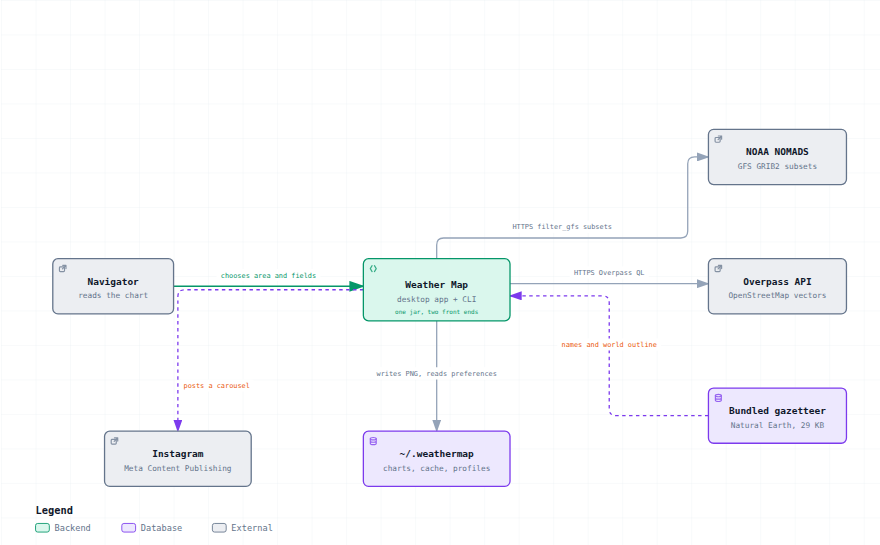
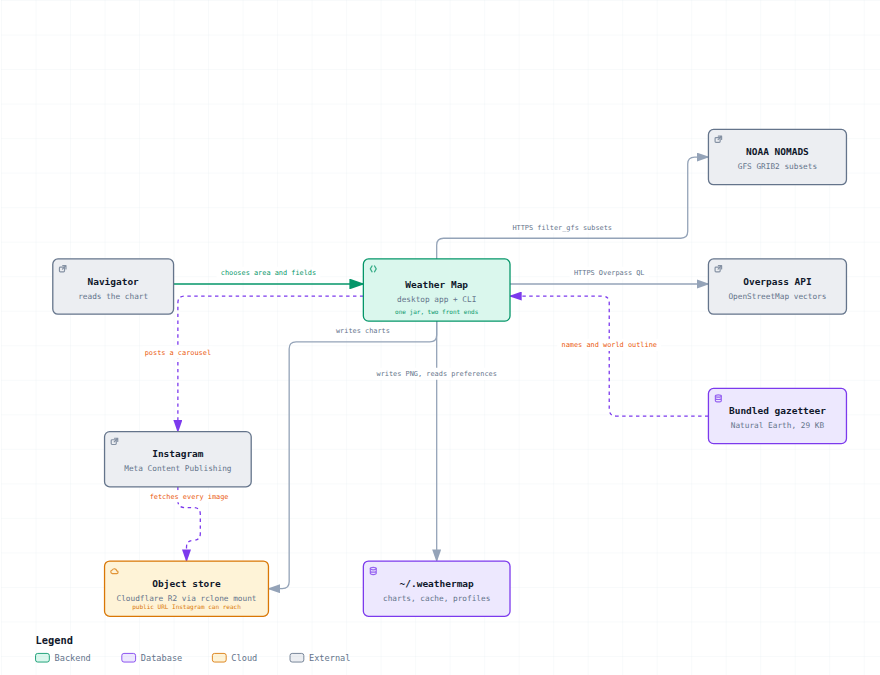
Bring the documentation back in line with what the code does
A sweep after an evening of changes to publishing and hosting.

operations.md contradicted itself. The top of the page explained that
the User-Agent had been fixed and that a test fails the build if a
placeholder returns; the checklist below still told the reader to set a
real one because "it currently names example.invalid". It now says what
is actually left to do, which is to add a contact address if you run it
hard. The page also gains the retry contract - 5xx and transport
failures are retried and 4xx never is - and why the response body is
kept.

not-done-yet.md listed Instagram publishing as unproven against Meta.
It has now published a carousel from a real account, so the entry is
replaced by what is genuinely still missing: no scheduled or repeated
post, and containers left behind by a carousel that fails part-way.

The C4 context diagram showed the application posting images to
Instagram. It never does - it writes to an object store and Instagram
fetches from there - so the store is now a component, with both edges
drawn. The container diagram's publishing card gains the two waits that
the post actually depends on.

packaging.md was bundled into the jar and shown nowhere, which made the
README's claim that the same pages are in the application untrue. It
gains a tab, and a test now fails if any document in docs/ has none.

basic-usage, how-it-works, CHANGES and the README pick up the caption
that is kept between posts, the settings check, and that a post takes
[…]

diff --git a/src/test/java/org/weathermap/gui/MarkdownTest.java b/src/test/java/org/weathermap/gui/MarkdownTest.java
@@ -114,4 +114,36 @@ class MarkdownTest {
             assertTrue(out.length() > 200, resource + " rendered suspiciously short");
         }
     }
+
+    /**
+     * Every page in docs/ is reachable from the Help menu.
+     *
+     * <p>The README says the documentation is the same in the repository and in
+     * the application, and a page that exists in one and not the other quietly
+     * makes that false. {@code packaging.md} had been bundled into the jar and
+     * shown nowhere since the Help window was written.</p>
+     */
+    @Test
+    void everyDocumentIsReachableFromTheHelpMenu() throws Exception {
+        final java.nio.file.Path docs = java.nio.file.Path.of("docs");
+        org.junit.jupiter.api.Assumptions.assumeTrue(
+                java.nio.file.Files.isDirectory(docs), "runs from the source tree only");
+
+        final java.util.Set<String> shown = new java.util.HashSet<>();
+        for (HelpWindow.Page page : HelpWindow.USER_GUIDE) shown.add(page.resource());
+        for (HelpWindow.Page page : HelpWindow.DEVELOPER_GUIDE) shown.add(page.resource());
+
+        final java.util.List<String> missing = new java.util.ArrayList<>();
+        try (var files = java.nio.file.Files.list(docs)) {
+            for (java.nio.file.Path file : files.toList()) {
+                final String name = file.getFileName().toString();
+                if (!name.endsWith(".md")) continue;
+                if (!shown.contains("/help/" + name)) missing.add(name);
+            }
+        }
+        assertTrue(missing.isEmpty(),
+                "documents with no Help tab: " + missing
+                + " - add a Page to HelpWindow, or the README's claim that the same "
+                + "pages are in the application is not true");
+    }
 }

diff --git a/src/main/java/org/weathermap/gui/HelpWindow.java b/src/main/java/org/weathermap/gui/HelpWindow.java
@@ -74,6 +74,7 @@ public final class HelpWindow extends JFrame {
             new Page("Operations", "/help/operations.md"),
             new Page("Architecture", "/help/architecture/README.md"),
             new Page("Diagrams", "/help/architecture/diagrams.md"),
+            new Page("Packaging", "/help/packaging.md"),
             new Page("Not Done Yet", "/help/not-done-yet.md"),
             new Page("License", "/help/LICENSE", true));
 

diff --git a/docs/not-done-yet.md b/docs/not-done-yet.md
@@ -15,7 +15,8 @@ Ordered by how much they matter.
 | Download progress is end-only | `Http.download` | `BodyHandlers.ofFile` gives no intermediate callbacks; needs a counting `BodySubscriber`. |
 | Variable/level availability is only partly validated | `GribCatalog.STANDARD_LEVELS` | The common levels are known and an impossible pair is now repaired by the CLI and queried by the UI, but the full set is only discoverable from each model's filter form, so an unknown pairing is still allowed through and fails at download time. |
 | Pressure-centre search radius is in pixels | `IsolineLayer.CENTRE_RADIUS_PX` | So the test means about a degree on a chart of Britain and five and a half on one of the Southern Ocean, and the same system can be marked at one zoom and not another. A geographic radius was tried: it fixes a genuine miss and loses a different centre, so it is a trade rather than an improvement and wants a proper survey across chart scales. |
-| Instagram publishing is unproven against Meta | `instagram/` | The request construction, image handling, chart selection and credential storage are tested. The three-step publish is written to the documented contract and has not been run against Meta's servers, which needs a real app, token and account. |
+| A post cannot be scheduled or repeated | `instagram/` | Publishing works end to end against Meta, but every post is a button press. A daily chart at a fixed hour needs the CLI to publish, which it cannot yet do — only the window can post. |
+| A failed carousel leaves its containers behind | `InstagramClient` | If the carousel is rejected after some image containers have been created, those containers stay on Meta's side until they expire in 24 hours. They are harmless and uncountable against the daily quota, but they are litter. |
 | Packages are not signed | `dist/` | An unknown-publisher warning on Windows, and a right-click-to-open on macOS, until they are signed and notarised. See [Packaging](packaging.md). |
 | Isoline segments are not stitched into paths | `IsolineLayer` | Marching squares emits unordered segments, which draw correctly and label adequately. Stitching would buy smoothing and a gap in the line under each label. |
 | A marine label point can land on land | `tools/make-gazetteer.py` | The centroid-then-chord rule holds for convex and crescent shapes; a many-armed one such as "Inner Seas off the West Coast of Scotland" can still put its name over an island. A pole of inaccessibility would fix it. |

diff --git a/docs/operations.md b/docs/operations.md
@@ -30,12 +30,31 @@ A 429 now quotes the server's own response body rather than asserting a cause.
 The status code alone cannot distinguish "you are asking too often" from "I do
 not like your User-Agent", and the body says which.
 
+## A rejection is asked once
+
+`Http` retries transport failures and 5xx, and never a 4xx: a 4xx is the server
+saying the request itself is wrong, so repeating it verbatim asks an identical
+question after an identical answer.
+
+That is what it had always claimed. It did the opposite — the throw for a 4xx
+stood inside the `try` whose `catch` handled retryable failures, so it caught
+its own throw, filed it as that attempt's error and went round again. Every
+rejection cost three requests to a shared service, and the log said "retrying"
+over a condition that could not change. A test now sends a 400 at a local server
+and fails the build if it arrives more than once.
+
+The response body is kept too. `HttpStatusException` carries the status and what
+the server said, because for an API that explains itself the body is the whole
+diagnosis and the status is nearly content-free: every distinct mistake had been
+arriving as the same bare `HTTP 400`.
+
 ## Before pointing this at the public services
 
 
-- **Set a real `Http.USER_AGENT`.** It currently names `example.invalid`. Both
-  the OSM Foundation's Overpass instances and NOMADS police the User-Agent, and
-  anonymous clients get blocked.
+- **Add a contact address if you run it hard.** The default User-Agent is
+  already a real one and is accepted by every Overpass instance in use — see
+  above; it is a courtesy, not a repair, to set `-Dweathermap.userAgent=...`
+  with a way to reach you.
 - **Keep the attribution layer on.** OSM data is ODbL, which requires the source
   to be credited on anything produced from it. `AnnotationLayer` draws
   "© OpenStreetMap contributors" whenever the annotation layer is enabled.

diff --git a/README.md b/README.md
@@ -5,8 +5,9 @@ data. A desktop application to choose the area and the data, and a command-line
 tool that repeats the last choice — or a saved profile — against the newest
 model run.
 
-**This is an outline.** The pipeline runs end to end against the live services,
-but several pieces are deliberately sketched rather than finished.
+**This is an outline.** The pipeline runs end to end against the live services —
+including publishing a carousel to Instagram from charts served out of Cloudflare
+R2 — but several pieces are deliberately sketched rather than finished.
 [What is not done yet](docs/not-done-yet.md) is the honest list.
 
 ![The chart pipeline, from a chosen area to a composited PNG](docs/architecture/svg/pipeline.svg)
@@ -33,7 +34,7 @@ The same pages are in the application: **Help → User's Guide** (F1) and
 |---|---|
 | [Basic usage](docs/basic-usage.md) | Choosing an area, choosing data, reading the chart, stepping a series |
 | [Hosting the images](docs/image-hosting.md) | Cloudflare R2 and an rclone mount, so writing a chart publishes it |
-| [Posting to Instagram](docs/instagram.md) | What Meta's API needs, how to get a token, and why there is no password |
+| [Posting to Instagram](docs/instagram.md) | What Meta's API needs, how to get a token, why there is no password, and why a container has to be waited for |
 | [Packaging](docs/packaging.md) | Installable packages for Linux, Windows and macOS; the version scheme |
 | [Build and run](docs/build-and-run.md) | Building, the two front ends, the CLI options, the optional NetCDF-Java profile |
 | [How it works](docs/how-it-works.md) | The rectangle, the vector base map, the bundled gazetteer, persistence, caching |

diff --git a/CHANGES.md b/CHANGES.md
@@ -46,8 +46,21 @@ that repeats a stored selection or a named profile.
   after it as a carousel, default four, in chronological order. Credentials are
   an account ID and an access token — Instagram has no supported password
   posting — and the images are written to a folder you serve publicly, because
-  Meta's API fetches every image rather than accepting an upload. See
-  [docs/instagram.md](docs/instagram.md).
+  Meta's API fetches every image rather than accepting an upload. Proven against
+  Meta's servers with a real account. See [docs/instagram.md](docs/instagram.md).
+- Both of Meta's login paths are supported, and the API host follows the token
+  rather than being fixed: a token from one is refused by the other, and the
+  refusal reads like a bad token instead of a wrong address.
+- A container is polled until Meta reports it `FINISHED` before the carousel is
+  published. An ID returned is not an image fetched, and publishing early is
+  refused with "Media ID is not available" — in the account's own language.
+- The caption is kept with the account, so a daily post starts from the previous
+  day's text. Saved before the post is attempted, so a failure does not take it.
+- A finished post says so in a dialog, with a link to it. Posting takes minutes,
+  and a line in the status bar is not where anyone is looking by then.
+- [Hosting the images](docs/image-hosting.md) sets up Cloudflare R2 behind an
+  rclone mount, so writing a chart publishes it, with the R2 quirks that break
+  a working configuration written down.
 
 **Licensing**
 

diff --git a/docs/basic-usage.md b/docs/basic-usage.md
@@ -93,7 +93,21 @@ The setup is not what you would expect, and it is worth reading
 has no password-based posting, so the credentials are an account ID and an
 access token, and the API fetches every image from a public URL rather than
 accepting an upload — so the application needs a folder it can write that you
-also serve over HTTP.
+also serve over HTTP. [Hosting the images](image-hosting.md) sets that up with
+Cloudflare R2, where writing a chart publishes it.
+
+**Check settings** proves the folder and the URL are the same place before
+anything is posted, which is the one part of the setup you cannot confirm by
+looking.
+
+**Expect it to take minutes.** Meta fetches every image in the carousel before
+it will publish, and that is most of the time; the status bar counts the seconds
+while it waits, and a dialog confirms the finished post with a link to it.
+
+The caption is kept with the account, so tomorrow's post opens with today's text
+ready to edit rather than empty — a daily chart's caption is usually the
+previous one with the date and a line changed. It is saved when you press
+**Post**, before the post is attempted, so a failure does not take it with it.
 
 ## Help without leaving the window
 

diff --git a/docs/how-it-works.md b/docs/how-it-works.md
@@ -94,8 +94,9 @@ the same format — see [Series, profiles and chart times](series-and-profiles.m
 
 `instagram.properties` is kept separate from all of them, because it holds a
 bearer token rather than a preference: the file is made owner-readable where the
-filesystem allows, and the token is never logged or put in an error message. See
-[Posting to Instagram](instagram.md).
+filesystem allows, and the token is never logged or put in an error message. It
+also keeps the last caption, so a daily post starts from the previous day's text
+rather than an empty box. See [Posting to Instagram](instagram.md).
 
 **A trap worth knowing about.** The window runs on *copies* of the selection and
 the render settings while the command-line tool does not, so anything

diff --git a/docs/architecture/c4-container.md b/docs/architecture/c4-container.md
@@ -13,7 +13,7 @@
 - Preferences carries the last area and selection
 - ProfileStore keeps named areas and selections
 - Cache holds GRIB runs indefinitely and OSM for four weeks
-- instagram.properties holds a bearer token, owner-readable only
+- instagram.properties holds a token and the last caption, owner-only
 
 **No third-party decoder**
 
@@ -23,7 +23,9 @@
 **Publishing**
 
 - Instagram fetches every image; nothing local can be posted
-- So charts are written to a folder served at a configured public URL
+- So charts go to a folder served at a configured public URL
+- PublishGate waits until every URL actually answers
+- Then each container is polled until Meta has fetched it
 
 ---
 

diff --git a/docs/architecture/c4-context.md b/docs/architecture/c4-context.md
@@ -12,7 +12,8 @@
 - NOMADS serves GRIB2 already cut to the area
 - Overpass serves coastline, boundaries and place names
 - Natural Earth ships in the jar and needs no network
-- Instagram fetches posted images from a public URL
+- Instagram fetches images; it never accepts an upload
+- So charts are written to an object store with a public URL
 
 **Fail-soft boundaries**
 
